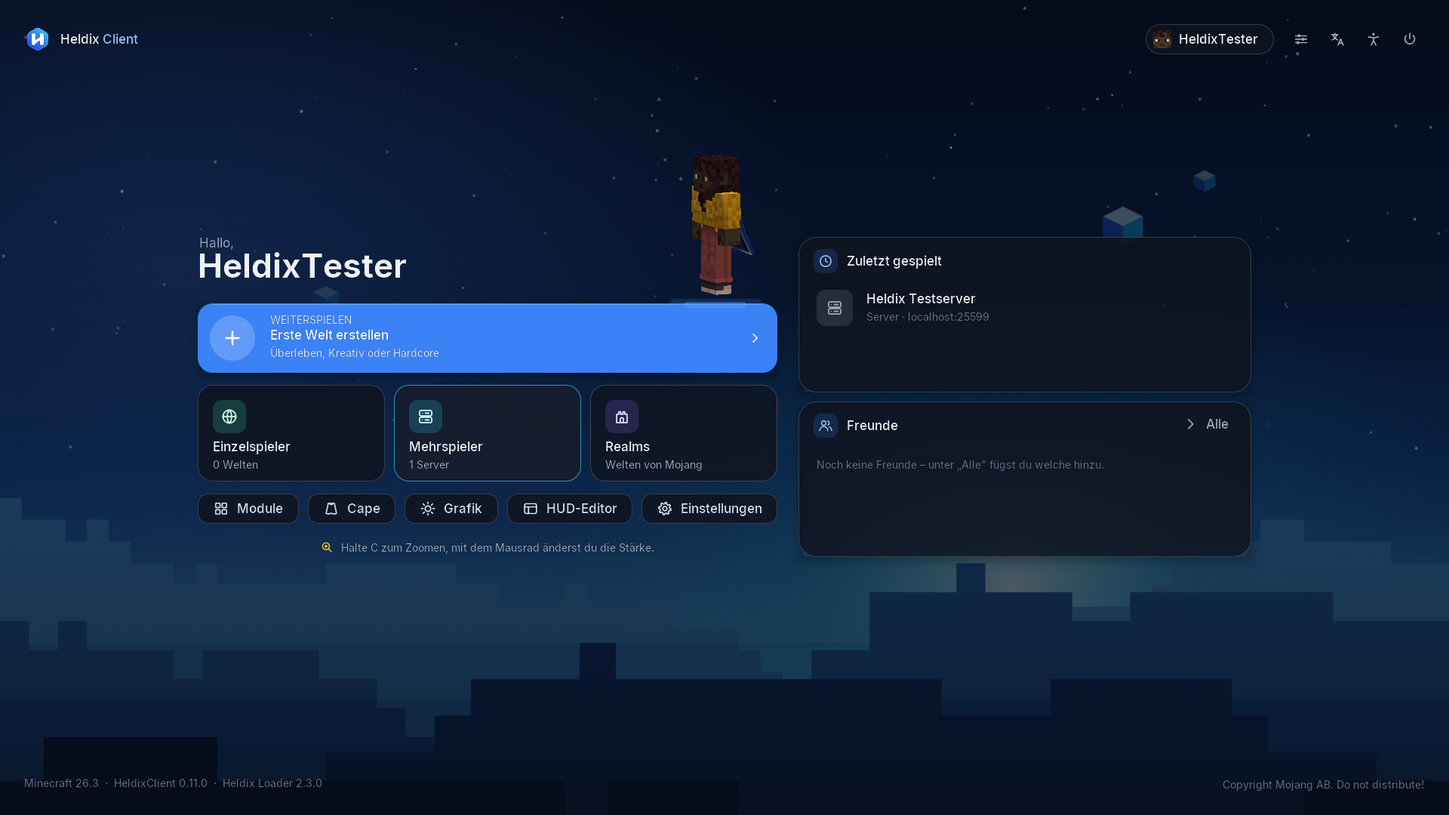
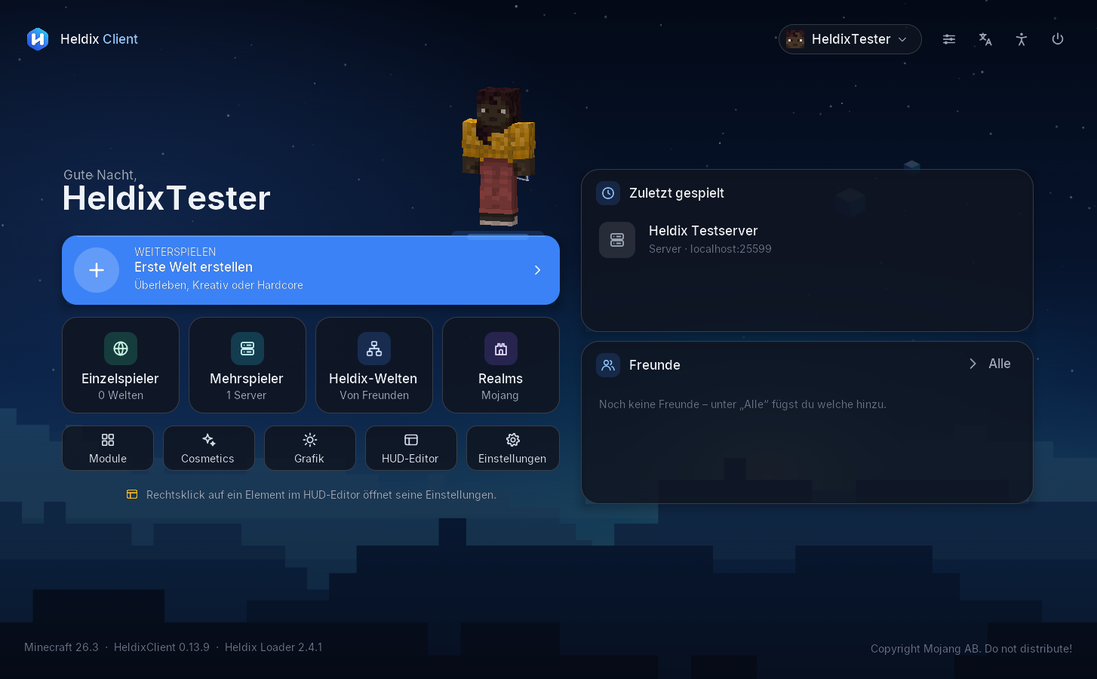
fix: Update main menu and pause menu images for improved visuals

diff --git a/README.md b/README.md
@@ -4,133 +4,123 @@
 
 # HeldixClient
 
-**Minecraft-Launcher mit eigenem Mod-Loader, Client-Mod und Addon-System – ganz ohne Fabric.**
+**Der Minecraft-Client zum Zusammenspielen – mit eigenem Launcher, eigenem Mod-Loader, Freunden, geteilten Welten, Voice Chat und Addon-Store.**
 
 [![Build](https://github.com/AMDRyzen753/HeldixClient/actions/workflows/build.yml/badge.svg)](https://github.com/AMDRyzen753/HeldixClient/actions/workflows/build.yml)
 [![Lizenz: MIT](https://img.shields.io/badge/Lizenz-MIT-blue.svg)](LICENSE)
 ![Minecraft 26.3](https://img.shields.io/badge/Minecraft-26.3-62b47a)
 ![Java 25](https://img.shields.io/badge/Java-25-e76f00)
-![Windows](https://img.shields.io/badge/Plattform-Windows-0078d4)
+![Windows](https://img.shields.io/badge/Windows-10%20%7C%2011-0078d4)
+![macOS](https://img.shields.io/badge/macOS-11%2B-555555)
+
+[**Download**](https://heldixclient.com/download) · [Webseite](https://heldixclient.com) · [Hilfe](https://heldixclient.com/hilfe) · [Für Entwickler](https://heldixclient.com/entwickler)
 
 <img src="docs/images/launcher-start.png" width="780" alt="Startseite des HeldixClient-Launchers">
 
 </div>
 
-## Was ist HeldixClient?
+## Auf einen Blick
 
-Ein eigener Minecraft-Client nach dem Vorbild von Lunar oder Feather, bestehend aus vier Teilen:
+| | |
+| --- | --- |
+| 🤝 **Zusammen spielen** | Freunde, Nachrichten, Party und „Beitreten“ – im Spiel, im Launcher und im Browser |
+| 🌍 **Welt teilen** | Die eigene Einzelspielerwelt mit einem Klick öffnen – kostenlos, ohne Portfreigabe, mit fester Adresse für alle |
+| 🎙 **Voice Chat** | Sprechen in der Nähe, in Gruppen und in der Party; Freunde ohne HeldixClient reden im Browser mit |
+| 🖥 **Eigene Oberfläche** | Startseite, Menüs, Pausemenü, HUD-Editor, Shader und F3-Menü im Heldix-Design |
+| ✨ **Cosmetics & Capes** | Animierte Flügel, Begleiter, Auren, Hüte und Capes – für alle HeldixClient-Spieler sichtbar |
+| 🧩 **Addon-Store** | Minimap, Emote-Rad, Spotify und mehr – geprüft und signiert, mit einem Klick installiert |
+
+## Was steckt drin?
 
 | Teil | Was er macht |
 | --- | --- |
-| **Launcher** | Lädt Minecraft direkt von Mojang, verwaltet Instanzen und Konten und startet das Spiel. Electron + TypeScript. |
-| **Heldix Loader** | Ein eigener Mod-Loader. Er klinkt sich als Java-Agent beim Start ein, verändert Minecraft-Klassen per ASM und lädt Heldix-Mods. Es gibt ihn auch als Fabric-Mod, damit HeldixClient in Fabric-Instanzen mitläuft. |
-| **HeldixClient-Mod** | Bringt die Features ins Spiel: eigener Ladebildschirm, eigene Oberfläche (Startseite, Einzel-/Mehrspieler, Pausemenü, Heldix-Menü) mit eigener Schrift und eigenen Icons, HUD-Module, Zoom, Heldix-Shader und ein eigenes F3-Menü. |
-| **Heldix-Addons** | Kleine Erweiterungen über eine stabile API, die nach Minecraft-Updates ohne neuen Build weiterlaufen. Einzeln aus dem **Addon-Store** (im Launcher, im Spiel und auf der Webseite, vom Team signiert), z. B. **Spotify** (Song mit Cover im HUD, Musik per Taste steuern), **Uhrzeit & Spielzeit** und **Item Physics** (Items liegen flach am Boden). |
+| **Launcher** | Lädt Minecraft direkt von Mojang, verwaltet Instanzen und Microsoft-Konten und startet das Spiel. Electron + TypeScript. |
+| **Heldix Loader** | Ein eigener Mod-Loader: klinkt sich als Java-Agent beim Start ein, verändert Minecraft-Klassen per ASM und lädt Heldix-Mods. Als Fabric-Mod läuft er auch in Fabric-Instanzen mit. |
+| **HeldixClient-Mod** | Die Features im Spiel: eigene Oberfläche, HUD-Module, Zoom, Freelook, Wegpunkte, Shader, Freunde, Welt teilen, Cosmetics. |
+| **Heldix-Addons** | Erweiterungen über eine stabile API, die nach Minecraft-Updates ohne neuen Build weiterlaufen – aus dem Addon-Store. |
+| **Heldix-Dienst** | Der Server hinter allem: Freunde, Nachrichten, Party, Welt-Relay, Voice, Cosmetics-Katalog, Addon-Store, Updates, Webseite mit Konto und Team-Bereich. Node.js, mit einem Ein-Befehl-Installer. |
 
-Wer Fabric-Mods wie Sodium oder Shaderpacks wie BSL nutzen möchte, legt im Launcher eine **Fabric-Instanz** an. HeldixClient läuft dort mit (abschaltbar).
+Wer Fabric-Mods wie Sodium oder Shaderpacks nutzen möchte, legt im Launcher eine **Fabric-Instanz** an – HeldixClient läuft dort mit (abschaltbar).
 
 ## Funktionen
 
-**Launcher**
-- Instanzen für jede Minecraft-Version, mit eigenen Welten, Mods, Addons und RAM-Einstellungen
-- drei Loader zur Wahl: Heldix Loader, Fabric oder Vanilla
-- Fabric-Mods direkt von Modrinth installieren, inklusive Abhängigkeiten
-- **Shaderpacks** wie BSL, Complementary oder Photon für Fabric-Instanzen: Suche auf Modrinth, Iris und Sodium kommen automatisch mit
-- **HeldixClient auch in Fabric-Instanzen** (HUD, Menü, Addons zusammen mit Sodium, Iris & Co.) und ein **Leistungs-Paket** mit einem Klick: Sodium, Lithium, FerriteCore, ImmediatelyFast, Entity Culling, More Culling
-- Prüfung vor jedem Start, ob die Fabric-Mods zusammenpassen; unverträgliche Zusatz-Mods schaltet der Launcher mit Hinweis ab
-- Microsoft-Login; Tokens werden mit Windows-DPAPI verschlüsselt
-- Mehrere Microsoft-Konten, Wechsel mit einem Klick (Offline-Konten gibt es nur in der Entwicklungsversion)
-- passende Java-Version (8 bis 25) wird automatisch geladen
-- **Vulkan als Standard** für Heldix-Instanzen ab Minecraft 26.x (mit automatischem Rückfall auf OpenGL) und abgestimmte Java-Einstellungen
-- **Gleiches Design wie im Spiel:** Schrift Inter, dieselben Icons, ruhiges Dunkel mit Blau; Seitenleiste mit Text (in schmalen Fenstern nur Icons)
-- Startseite: großer Spielen-Knopf mit Instanz-Auswahl und deinem Skin als drehbare 3D-Figur, Schnellzugriff auf Mods, Shader, Ordner und Einstellungen der Instanz
-- **Weiterspielen:** zuletzt gespielte Welten und Server mit einem Klick direkt betreten (Minecraft Quick Play)
-- zuletzt gespielte Instanzen direkt auf der Startseite wählen oder starten
-- **Einrichtung beim ersten Start:** Willkommen (mit Einladung, falls vorhanden), Microsoft-Anmeldung und nur offizielle HeldixClient-Addons zum Vorinstallieren; der Windows-Installer im HeldixClient-Design
-- **Zusammen spielen auf der Startseite:** offene Welten deiner Freunde und Freunde online mit „Beitreten“ (wählt die passende Instanz), Glocke mit allen Benachrichtigungen; während des Spiels bleibt der Launcher auf Wunsch im Infobereich
-- Neueste Minecraft-Patch-Notes mit Vorschaubild, mit einem Klick lesbar
-- **Discord-Status** mit Dimension, Spielmodus, Spielerzahl, Voice, geteilter Welt, Party und „Abwesend“, passenden Bildern und dem eigenen Minecraft-Kopf; jeder Teil einzeln abschaltbar, mit Vorschau
-- **Automatische Updates** über die Schnittstelle von heldixclient.com: unter Windows prüft der Launcher beim Start, installiert eine neue Version gleich still und startet neu; im laufenden Launcher alle 30 Minuten, mit „Jetzt neu starten“ oder beim Beenden. Jede Version ist mit einem eigenen Schlüssel signiert; der Launcher nimmt nur geprüfte, neuere Installer an
-- Spielkonsole mit Log
-
-**Im Spiel**
-- eigener Ladebildschirm im Heldix-Design statt des Mojang-Logos; beim Laden einer Welt und beim Verbinden mit einem Server eine Tipp-Karte mit der eigenen Spielfigur
-- **eigene Oberfläche statt Minecraft-Optik:** moderne Schrift (Inter), weiche, kantengeglättete Flächen und Schatten, ein eigenes Icon-Set und der Hintergrund des Launchers
-- **Startseite:** Begrüßung mit der eigenen Spielfigur samt Cape (Klick öffnet die Cape-Auswahl; in kleinen Fenstern steht sie groß neben den Kacheln), „Weiterspielen“ mit Vorschaubild der letzten Welt oder dem letzten Server samt Live-Stand (Spieler online, Ping), Kacheln für Einzelspieler, Mehrspieler, Heldix-Welten und Realms, beschriftete Wege zu Modulen, Cosmetics, Grafik, HUD-Editor und Einstellungen – auch in kleinen Fenstern nichts abgeschnitten; in breiten Fenstern daneben „Zuletzt gespielt“ und „Freunde“ mit Online-Status, sonst eine Freunde-Zeile mit Party und offenen Welten
-- **Ein Fenster für alles:** Einzelspieler, Mehrspieler, Heldix-Menü und Pausemenü teilen sich eine Seitenleiste mit Ober-Kategorien in Gruppen (Spielen, Heldix, Profil, System); Kategorien mit mehreren Bereichen haben ihre Unter-Menüs als Reiter unter dem Seitentitel, z. B. Grafik → Shader, Leistung oder Freunde → Freunde, Anfragen, Privatsphäre. Offene Freundschaftsanfragen stehen als Zahl in der Seitenleiste
-- eigene **Einzelspieler- und Mehrspieler-Seiten** mit Suche, Welt- und Server-Symbolen, Ping-Balken, Spielerliste beim Darüberfahren und Spielen/Bearbeiten/Löschen direkt in der Liste; Server ohne eigenen Namen zeigen ihre Adresse; die klassische Minecraft-Ansicht bleibt einen Klick entfernt
-- eigenes **Pausemenü** mit Servername und Adresse (mit einem Klick kopieren), Schnellschaltern für bis zu zwölf Module (Dauersprint, Freelook, Fadenkreuz, Wegpunkte, Zoom …), Schaltern für Mikrofon und Ton des Voice Chats und Karten für die Sitzung (Spielzeit, Position, Ping – auch auf Servern, die in der Tab-Liste keinen melden – bzw. Spielmodus), Freunde mit „Freunde einladen“ (im Mehrspieler direkt auf den eigenen Server) und Party sowie „Wegpunkt hier setzen“; das von Minecraft (mit Knöpfen anderer Mods) bleibt über „Klassisches Pausemenü“ erreichbar. Minecrafts Hinweis zu nicht überprüfbaren Chatnachrichten erscheint als Heldix-Einblendung statt über den Menüs
-- Heldix-Menü (**Rechte Umschalttaste**): Übersicht mit Spielfigur und Karten für Freunde, Wegpunkte, aktive Module und Tasten; Module als Kacheln mit Icons, Reitern (Alle, HUD, Funktionen, Addons), Suche und einem Untermenü pro Modul (z. B. Größe, Farben, Anzeige); Einstellungen in Gruppen-Karten statt einer langen Liste
-- übrige Minecraft-Menüs (Optionen usw.) mit passenden Knöpfen und Hintergrund; alles auf Wunsch abschaltbar
-- HUD-Module: FPS, CPS, Ping, Koordinaten, Richtung, Biom, Keystrokes, **Rüstung** (Rüstung und Items in der Hand mit Haltbarkeit, farbig je nach Zustand), **Trank-Effekte** (Symbol, Stufe und Restzeit; kurz vor dem Ende blinkt der Eintrag)
-- **Dauersprint und Dauerschleichen:** Sprinten ohne Taste (Sprinttaste schaltet um), Schleichen per Tastendruck umschalten; Minecraft entscheidet weiter, wann gesprintet werden darf
-- **Freelook** (**Linke Alt** halten): frei umschauen, während der Spieler weiter in seine Richtung läuft; auf Servern, deren Regeln es verbieten (z. B. hypixel.net), bleibt es aus
-- **Fadenkreuz-Editor:** sechs Formen, acht Farben, Größe, Dicke, Lücke, Deckkraft, Umrandung und Rot beim Zielen auf Lebewesen
-- **Chat:** Uhrzeit vor jeder Nachricht, gleiche Nachrichten hintereinander als „(3×)“ zusammengefasst, Strg+Klick kopiert eine Nachricht
-- **Wegpunkte** (**B** setzt einen): Markierung mit Name und Entfernung, auch durch Wände; automatischer Todespunkt; Verwalten unter Heldix-Menü → Wegpunkte (Farbe, Ausblenden, Löschen)
-- **Freunde, Capes für alle und Heldix-Symbol** über den [Heldix-Dienst](docs/dienst.md): Freundesliste mit Anfragen und Online-Status (auf Wunsch mit Server), andere HeldixClient-Spieler sehen dein Heldix-Cape, und in der Tab-Liste und über ihren Köpfen steht das Heldix-Logo vor ihrem Namen (eigenes Symbol für Team und Addon-Entwickler)
-- **Abzeichen** als Sechseck-Symbole für die Team-Rollen Admin, Entwickler, Moderator, Supporter, Designer und Tester, für Addon-Entwickler und für die Community (Partner, Creator, Botschafter) – in der Tab-Liste, über Köpfen, in der Freundesliste und auf der Profilkarte
-- **Beitreten:** Spielt ein Freund auf einem öffentlichen Server oder in einer geteilten Welt, bringt dich „Beitreten“ in der Freundesliste direkt dorthin (aus einer Welt heraus nach einer Rückfrage)
-- **Welt teilen:** die eigene Einzelspielerwelt im Pausenmenü mit einem Klick öffnen – kostenlos, ohne Portfreigabe, mit fester Adresse wie `k7m2xq.welt.heldixclient.com`, der auch Spieler ohne HeldixClient beitreten können; die IP-Adressen der Mitspieler sieht der Gastgeber nicht. Im Hauptmenü **Heldix-Welten** mit den offenen Welten der Freunde, eigenen Welten, Mitgliedern und Rollen, Anklopfen (**H** erlauben, **N** ablehnen) und automatischen Sicherungen
+### Zusammen spielen
+- **Freunde** mit Anfragen, Online-Status, Favoriten, Spitznamen und Notizen (nur für dich), eigenem Status mit „Nicht stören“, „zuletzt online“ und einer Profilkarte mit 3D-Skin und gemeinsamen Freunden
+- **Beitreten:** Spielt ein Freund auf einem öffentlichen Server oder in einer geteilten Welt, bringt dich ein Klick dorthin – aus dem Spiel, dem Launcher und dem Discord-Status
+- **Nachrichten** mit Antworten, Reaktionen, „schreibt …“, Löschen und Beitreten-Karten; Einblendung im Spiel
 - **Party** mit bis zu 7 Freunden: sehen, wo jeder spielt, Party-Chat, dem Leiter folgen und automatisch eine gemeinsame Voice-Gruppe
-- **Einladen:** eigener Link unter Freunde → Einladen; Neue sind gleich befreundet, Belohnungen (Freundesfunken, Cape Freundesband) für bestätigte Freunde. Freunde ohne HeldixClient reden über einen Gast-Link im Browser im Voice Chat mit
-- **Nachrichten** zwischen Freunden im Heldix-Menü (Freunde → Nachrichten), mit Einblendung im Spiel und Zahl der ungelesenen in der Seitenleiste; Antworten, Reaktionen, Löschen, „schreibt …“ und Beitreten-Karten; Nachrichten liegen höchstens 30 Tage beim Dienst. Dazu Favoriten, Spitznamen und Notizen nur für dich, eigener Status mit „Nicht stören“, **Blockieren** (Chat, Anfragen) und **Melden** (mit den letzten Nachrichten an den Betreiber)
-- **Konto auf heldixclient.com** ohne Passwort: Im Launcher (Konto-Menü) oder im Heldix-Menü „Auf heldixclient.com anmelden“ öffnet die Webseite schon angemeldet. Dort: Übersicht, Profil und Cosmetics, Freunde, Nachrichten und Party in Echtzeit, „Meine Welten“, Einladen, Privatsphäre, Blockierte und eigene Meldungen, alle Daten als Datei und Konto löschen
-- **Team-Bereich** auf der Webseite (nur mit Zwei-Faktor-Code): Übersicht je nach Rolle, Meldungen und Support, Spieler sperren und verwalten (mit Zeitleiste), Neuigkeiten für Webseite und Launcher schreiben, Updates, Addons und Cosmetics veröffentlichen (nur signierte), Teammitglieder mit den Rollen Admin, Entwickler, Moderator, Supporter, Designer und Tester (Rechte je Rolle) und Community-Abzeichen verwalten, Schnellsuche (Strg+K), Protokoll aller Team-Aktionen
-- **Support:** Spieler schreiben dem Team über ihr Konto (aus dem Launcher und dem Spiel unter „Hilfe & Support“ direkt erreichbar); Antworten werden im Spiel eingeblendet
-- **Öffentliche Seiten:** Teamseite (nur Mitglieder, die zustimmen, mit Minecraft-Kopf), Neuigkeiten mit Versionsverlauf, Statusseite; nach einem Update zeigt der Launcher „Was ist neu“, die neuesten Neuigkeiten stehen auch in der Übersicht im Spiel
-- HUD-Editor mit Werkzeugleiste: Einrasten an Rändern und anderen Elementen (Umschalt = frei), Raster, Größe über die Ecke oder das Mausrad, Elemente-Liste zum Ein- und Ausblenden, Pfeiltasten, Rückgängig (Strg+Z); Rechtsklick öffnet die Einstellungen eines Elements
-- Zoom (**C** halten, Mausrad ändert die Stärke)
-- **Heldix-Shader:** acht Farbstile und eine Shader-Engine mit Bloom, Tiefenunschärfe, Nebel und Umgebungsverdeckung (SSAO), mit Vulkan und OpenGL; HUD und Menüs bleiben unverändert
-- **Leistung:** FPS-Boost (schnelle Grafikoptionen, Ausschalten stellt alles wieder her) und weniger FPS, solange das Fenster im Hintergrund ist
-- **F3-Menü** im Heldix-Design, mit Grafik-API, Shader und Client-Version
-- **Capes:** 13 animierte Heldix-Capes in hoher Auflösung (Heldix, Mitternacht, Aurora, Glut, Kristall, Neon, Sakura, Gewitter, Galaxie, Matrix und – nur fürs Team – Matrix Rot, Matrix Türkis und Sakura Orange) mit Zierkante – Flammen flackern, Sterne funkeln, Blitze zucken, und leuchtende Teile strahlen auch nachts. Das Cape weht wie Stoff: Es biegt sich, wirft Wellen und flattert beim Laufen, ruhig und ohne durch Körper oder Beine zu stechen (für alle Capes, abschaltbar). Dazu eigene Bilder per Drag & Drop, eine drehende Vorschau der eigenen Spielfigur und auf Wunsch dasselbe Motiv auf der Elytra – in echter Flügelform, bei Aurora, Mitternacht, Glut und Galaxie mit eigener Form. Sichtbar für dich (z. B. mit F5)
-- **Cosmetics** aus dem Katalog des Heldix-Dienstes, für alle HeldixClient-Spieler sichtbar: Hüte, Flügel und Rückenteile, Begleiter und Auren – viele animiert, sie bewegen sich beim Laufen, Schleichen, Schwimmen und Fliegen mit und leuchten teils im Dunkeln; jede Datei ist signiert
-- **Addon-Store** im Launcher, auf der Webseite und im Spiel mit offiziellen Addons wie Voice Chat (Nähe, Gruppen, Browser-Gäste), Minimap, Emote-Rad, Item Physics, Uhrzeit und Spotify; Addons von Entwicklern werden vom Team geprüft und signiert
-- **Spotify-Addon:** laufender Song mit Cover und Fortschritt im HUD, Abspielen/Pause und Songwechsel per Taste (Pos1, Bild ab/auf), Einblendung bei jedem neuen Song – ohne Anmeldung, über die Windows-Mediensteuerung
+- **Welt teilen:** Einzelspielerwelt im Pausemenü öffnen, feste Adresse wie `k7m2xq.welt.heldixclient.com`, auch für Spieler ohne HeldixClient. Die IP-Adressen der Mitspieler sieht der Gastgeber nicht. Dazu **Heldix-Welten** im Hauptmenü mit den Welten der Freunde, Mitgliedern, Rollen, Anklopfen (**H**/**N**) und automatischen Sicherungen. In der Serverliste deiner Mitspieler steht „Geteilt mit HeldixClient“
+- **Einladen:** eigener Link – wer darüber dazukommt, ist gleich befreundet; Belohnungen für bestätigte Freunde. Der Link kann direkt auf deinen Server führen
+- **Voice Chat** (Addon): Nähe, Gruppen, Party und geteilte Welten; Mikrofon und Ton auch im Pausemenü schalten; Gäste im Browser über einen Gast-Link
+- **Blockieren** und **Melden**, Privatsphäre-Einstellungen für alles, was Freunde sehen
 
-**Für Entwickler**
-- [Heldix-Mods](docs/heldix-loader.md#eine-heldix-mod-schreiben) mit Events, eigenen Tasten, Übersetzungen und eigenen Eingriffen in Minecraft-Code
-- [Heldix-Addons](docs/addons.md) gegen eine einfache, versionsunabhängige API
-- automatischer Test im echten Spiel, der sich durch alle Menüs klickt
+### Im Spiel
+- **Eigene Oberfläche:** moderne Schrift (Inter), weiche Flächen, eigenes Icon-Set, eigener Ladebildschirm mit Tipp-Karte
+- **Startseite** mit deiner Spielfigur, „Weiterspielen“ samt Live-Stand des letzten Servers (Spieler online, Ping), Kacheln für Einzelspieler, Mehrspieler, Heldix-Welten und Realms, „Zuletzt gespielt“ und Freunden
+- **Ein Fenster für alles:** Einzelspieler, Mehrspieler, Heldix-Menü (**Rechte Umschalttaste**) und Pausemenü teilen sich eine Seitenleiste; Schnellsuche, volle Tastatur-Bedienung
+- **Pausemenü** mit Servername und Adresse, echtem Ping, bis zu zwölf Schnellschaltern, Voice-Schaltern, Freunden mit „Freunde einladen“, Party und Wegpunkten; das klassische Pausemenü bleibt einen Klick entfernt
+- **HUD-Module:** FPS, CPS, Ping, Koordinaten, Richtung, Biom, Keystrokes, Rüstung, Trank-Effekte – frei platzierbar im **HUD-Editor** (Einrasten, Raster, Größe, Rückgängig)
+- **Dauersprint und Dauerschleichen**, **Freelook** (Linke Alt), **Zoom** (C), **Fadenkreuz-Editor**, **Wegpunkte** (B, mit Todespunkt), Chat mit Uhrzeit und Zusammenfassung gleicher Nachrichten
+- **Heldix-Shader:** acht Farbstile und eine Shader-Engine mit Bloom, Tiefenunschärfe, Nebel und SSAO – mit Vulkan und OpenGL
+- **Leistung:** Vulkan als Standard ab Minecraft 26.x, FPS-Boost, weniger FPS im Hintergrund, F3-Menü im Heldix-Design
+- **Abzeichen** für Team-Rollen, Addon-Entwickler und Community (Partner, Creator, Botschafter) in der Tab-Liste, über Köpfen und in der Freundesliste
+
+Freelook und andere Komfort-Funktionen bleiben auf Servern aus, deren Regeln sie verbieten. Im Zweifel die Regeln des Servers prüfen.
+
+### Cosmetics und Capes
+- **13 animierte Heldix-Capes** in hoher Auflösung, die wie Stoff wehen; eigene Bilder per Drag & Drop; dasselbe Motiv auf der Elytra in echter Flügelform
+- **Cosmetics** aus dem signierten Katalog: Hüte, Flügel und Rückenteile, Begleiter und Auren – viele animiert, sie reagieren auf Laufen, Schleichen, Schwimmen und Fliegen und leuchten teils im Dunkeln
+- Für alle HeldixClient-Spieler sichtbar; Auswahl auch im Launcher und auf der Webseite mit 3D-Vorschau
+
+### Addons
+- **Addon-Store** im Launcher, im Spiel und auf der Webseite: Voice Chat, Minimap, Emote-Rad, Item Physics, Uhrzeit & Spielzeit, Spotify
+- Addons von Entwicklern werden vom Team geprüft und signiert; der Client lädt nur Signiertes aus dem Store
+- Eine stabile [Addon-API](docs/addons.md) ohne Minecraft-Abhängigkeit – Addons laufen über Minecraft-Updates hinweg weiter
+
+### Launcher
+- **Einrichtung beim ersten Start:** Willkommen (mit Einladung, falls vorhanden), Microsoft-Anmeldung und offizielle Addons zum Vorinstallieren; Windows-Installer im HeldixClient-Design
+- **Instanzen** für jede Minecraft-Version mit drei Loadern: Heldix Loader, Fabric oder Vanilla; Fabric-Mods und Shaderpacks direkt von Modrinth, Leistungs-Paket mit einem Klick, Prüfung auf unverträgliche Mods
+- **Mehrere Microsoft-Konten**, Wechsel auch im Spiel; Tokens mit Windows-DPAPI verschlüsselt; passendes Java (8 bis 25) wird automatisch geladen
+- **Startseite** mit 3D-Skin, Weiterspielen (Quick Play), offenen Welten der Freunde, Freunden online, Patch-Notes und einer Glocke für alle Benachrichtigungen; bleibt während des Spiels auf Wunsch im Infobereich
+- **Discord-Status** mit Dimension, Spielmodus, Spielerzahl, Voice, geteilter Welt, Party und eigenem Minecraft-Kopf – jeder Teil einzeln abschaltbar
+- **Automatische Updates:** Windows prüft beim Start und installiert neue Versionen still; jede Version ist signiert, angenommen werden nur geprüfte, neuere Installer
+
+### Webseite und Konto
+- **Konto auf heldixclient.com** ohne Passwort – aus Launcher oder Spiel schon angemeldet: Profil und Cosmetics, Freunde, Nachrichten und Party in Echtzeit, Meine Welten, Einladen, Privatsphäre, Support, alle Daten als Datei und Konto löschen
+- **Team-Bereich** mit Zwei-Faktor-Anmeldung und Rechten je Rolle (Admin, Entwickler, Moderator, Supporter, Designer, Tester): Meldungen, Support, Spieler, Neuigkeiten, Updates, Addons, Cosmetics, Abzeichen, Protokoll
+- Öffentliche Seiten: Download, Module, Cosmetics, Addon-Store, Welt-Seite `/welt#code`, Neuigkeiten mit Versionsverlauf, Status, Hilfe und Entwickler-Doku
 
 ## Screenshots
 
 | | |
 | :---: | :---: |
-| <img src="docs/images/spiel-hauptmenue.png" alt="Heldix-Hauptmenü im Spiel"> | <img src="docs/images/spiel-heldix-menue.png" alt="Heldix-Menü mit Modulen"> |
-| Startseite | Heldix-Menü |
-| <img src="docs/images/launcher-instanzen.png" alt="Instanzen im Launcher"> | <img src="docs/images/launcher-neue-instanz.png" alt="Neue Instanz anlegen"> |
-| Instanzen | Neue Instanz |
-| <img src="docs/images/spiel-ladebildschirm.png" alt="Ladebildschirm im Heldix-Design"> | <img src="docs/images/spiel-untermenue.png" alt="Untermenü eines Moduls"> |
-| Ladebildschirm | Untermenü eines Moduls |
-| <img src="docs/images/spiel-einzelspieler.png" alt="Einzelspieler-Seite"> | <img src="docs/images/spiel-mehrspieler.png" alt="Mehrspieler-Seite"> |
-| Einzelspieler | Mehrspieler |
-| <img src="docs/images/spiel-hud-editor.png" alt="HUD-Editor mit Elemente-Liste"> | <img src="docs/images/spiel-shader.png" alt="Shader im Heldix-Menü"> |
-| HUD-Editor | Shader: Farbstile und Shader-Engine |
-| <img src="docs/images/spiel-pausemenue.png" alt="Pausemenü im Heldix-Design"> | <img src="docs/images/ui-icons.png" alt="Icon-Set von HeldixClient"> |
-| Pausemenü | Eigenes Icon-Set |
-| <img src="docs/images/spiel-cape.png" alt="Cape-Auswahl im Heldix-Menü"> | <img src="docs/images/capes.png" alt="Die 13 Heldix-Capes"> |
-| Cape mit Vorschau der eigenen Figur | Die Heldix-Capes |
-| <img src="docs/images/spiel-uebersicht.png" alt="Übersicht im Heldix-Menü mit Spielfigur"> | <img src="docs/images/spiel-welt-laden.png" alt="Welt laden mit Tipp-Karte"> |
-| Übersicht im Heldix-Menü | Welt laden: Tipp mit Spielfigur |
-| <img src="docs/images/spiel-freunde.png" alt="Freunde mit Reitern Freunde, Anfragen, Privatsphäre"> | <img src="docs/images/spiel-einstellungen.png" alt="Einstellungen in Gruppen-Karten"> |
-| Freunde: Reiter für Anfragen und Privatsphäre | Einstellungen in Gruppen |
+| <img src="docs/images/spiel-hauptmenue.png" alt="Hauptmenü im Heldix-Design"> | <img src="docs/images/spiel-pausemenue.png" alt="Pausemenü mit Schnellschaltern, Voice und Freunden"> |
+| Hauptmenü | Pausemenü |
+| <img src="website/src/bilder/welt-geteilt.webp" alt="Welt teilen mit fester Adresse"> | <img src="website/src/bilder/party-spiel.webp" alt="Party im Heldix-Menü"> |
+| Welt teilen | Party |
+| <img src="website/src/bilder/cosmetics-animiert.webp" alt="Animierte Cosmetics"> | <img src="docs/images/capes.png" alt="Die Heldix-Capes"> |
+| Animierte Cosmetics | Die Heldix-Capes |
+| <img src="docs/images/spiel-heldix-menue.png" alt="Heldix-Menü mit Modulen"> | <img src="docs/images/spiel-hud-editor.png" alt="HUD-Editor mit Elemente-Liste"> |
+| Heldix-Menü | HUD-Editor |
+| <img src="website/src/bilder/einrichtung-willkommen.webp" alt="Einrichtung beim ersten Start"> | <img src="website/src/bilder/launcher-welten.webp" alt="Offene Welten der Freunde im Launcher"> |
+| Einrichtung beim ersten Start | Offene Welten der Freunde im Launcher |
+| <img src="docs/images/spiel-shader.png" alt="Shader im Heldix-Menü"> | <img src="docs/images/spiel-ladebildschirm.png" alt="Ladebildschirm im Heldix-Design"> |
+| Shader | Ladebildschirm |
 
 ## Installation
 
 **Windows 10 und 11**
 1. Den Installer `HeldixClient-Setup-<version>.exe` auf [heldixclient.com/download](https://heldixclient.com/download) herunterladen und starten.
 2. Windows SmartScreen warnt beim ersten Start, weil der Installer nicht signiert ist: **Weitere Informationen** → **Trotzdem ausführen**.
-3. Im Launcher mit dem Microsoft-Konto anmelden, eine Instanz wählen und **Spielen** drücken.
+3. Die Einrichtung führt durch Anmeldung und Addons – danach eine Instanz wählen und **Spielen** drücken.
 
 **macOS 11 oder neuer** (Apple Silicon und Intel)
 1. Auf [heldixclient.com/download](https://heldixclient.com/download) die Mac-Version laden (Apple Silicon für M1 und neuer, sonst Intel), öffnen und HeldixClient in **Programme** ziehen.
 2. Die App ist nur ad-hoc signiert und nicht von Apple beglaubigt. Beim ersten Start blockiert macOS sie; unter **Systemeinstellungen → Datenschutz & Sicherheit** steht dann **Dennoch öffnen**.
-3. Anmelden und spielen wie unter Windows. Unterschiede: Vulkan gibt es auf dem Mac nicht (Minecraft wählt die Grafik selbst), Updates meldet der Launcher nur und lädt sie nicht selbst, und das Spotify-Addon braucht Windows.
+3. Anmelden und spielen wie unter Windows. Unterschiede: kein Vulkan (Minecraft wählt die Grafik selbst), Updates meldet der Launcher nur und schickt zur Download-Seite, und das Spotify-Addon braucht Windows.
 
 > [!NOTE]
-> Die Anmeldung mit Microsoft-Konten braucht eine App-ID, die Mojang freigeschaltet hat. Die App-ID von HeldixClient ist seit November 2026 freigegeben. Wer einen eigenen Build mit eigener App-ID ausliefert, muss sie selbst freischalten lassen, siehe [docs/einrichtung.md](docs/einrichtung.md).
+> Die Anmeldung mit Microsoft-Konten braucht eine App-ID, die Mojang freigeschaltet hat. Die App-ID von HeldixClient ist freigegeben. Wer einen eigenen Build mit eigener App-ID ausliefert, muss sie selbst freischalten lassen, siehe [docs/einrichtung.md](docs/einrichtung.md).
 
 ## Selbst bauen
 
@@ -140,38 +130,37 @@ Voraussetzungen: Windows oder macOS, [Node.js](https://nodejs.org) 22 oder neuer
 git clone https://github.com/AMDRyzen753/HeldixClient.git
 cd HeldixClient\launcher
 npm install
-npm run mod      # baut Heldix Loader und Client-Mod (Addons: npm run addon -- <id>, siehe docs/addons.md)
-npm start        # startet den Launcher im Entwicklungsmodus
-npm run dist     # erzeugt den Installer in launcher\release\
+npm run mod      # Heldix Loader und Client-Mod (Addons: npm run addon -- <id>, siehe docs/addons.md)
+npm start        # Launcher im Entwicklungsmodus
+npm run dist     # Windows-Installer in launcher\release\
 npm run dist:mac # nur auf einem Mac: DMG und ZIP für Apple Silicon und Intel
 ```
 
-Die Mac-App baut auch GitHub Actions bei jedem Push (Job „macOS-App bauen“) und hängt sie bei einem Versions-Tag an das Release.
+- **Ohne Mac:** GitHub Actions baut bei jedem Push auf `main` den Windows-Installer und die Mac-App (Workflow „Build“, Artefakte `HeldixClient-Setup` und `HeldixClient-macOS`), bei einem Versions-Tag wie `v0.13.9` auch als Release. Von Hand: Workflow „Build“ → **Run workflow**.
+- Beim ersten Bauen lädt Gradle die Minecraft-Client-JAR zum Kompilieren direkt von Mojang. Sie landet nur in `mod/.gradle/` und wird nie eingecheckt oder ausgeliefert.
+- `mod/src/main/resources/heldix-store-key.pem` ist der **öffentliche** Schlüssel für Store-Addons und Cosmetics und muss zu `launcher/src/main/update-public-key.ts` passen. Private Schlüssel gehören nie ins Repository.
+- Den **Heldix-Dienst** samt Webseite baut `npm run installer` in `service/` zu einem Ein-Befehl-Installer für Linux-Server, siehe [docs/dienst.md](docs/dienst.md).
 
-Beim ersten Bauen lädt Gradle die Minecraft-Client-JAR zum Kompilieren direkt von Mojang. Sie landet nur in `mod/.gradle/` und wird nie eingecheckt oder ausgeliefert.
-
-Mehr dazu, inklusive Tests und Releases, steht in [docs/entwicklung.md](docs/entwicklung.md).
+Mehr dazu, inklusive Tests (automatischer Test im echten Spiel, Dienst- und Launcher-Tests) und Releases, steht in [docs/entwicklung.md](docs/entwicklung.md).
 
 ## Projektaufbau
 
 ```
-launcher/                Electron-Launcher (TypeScript)
-├── src/main/            Hauptprozess: Fenster, Konten, Einstellungen, Discord
-│   └── core/            Launcher-Kern: Download, Java, Instanzen, Spielstart
-├── src/renderer/        Oberfläche (HTML/CSS/TypeScript)
-└── src/scripts/         Start-, Auto- und Discord-Test
-mod/                     Java-Projekte (Gradle, Minecraft 26.3, Java 25)
-├── heldix-loader/       der Heldix Loader (Java-Agent + ASM)
-├── heldix-loader-fabric/ derselbe Loader als Fabric-Mod (für HeldixClient in Fabric-Instanzen)
-├── src/                 HeldixClient-Mod
-├── heldix-api/          API für Heldix-Addons (ohne Minecraft-Abhängigkeit)
-├── addons/uhrzeit/      Addon „Uhrzeit & Spielzeit“ (auch Vorlage), kommt über den Addon-Store
-├── addons/spotify/      Spotify-Addon (Windows-Mediensteuerung), kommt über den Addon-Store
-├── addons/itemphysics/  Addon „Item Physics“ (gedroppte Items liegen flach, API 4), kommt über den Addon-Store
-service/                 Heldix-Dienst: Freunde, Capes für alle, Heldix-Symbol (Node.js) und Server-Installer
-website/                 Webseite (Startseite, Download, Impressum, Datenschutz)
-└── autotest/            automatischer Test im echten Spiel
-docs/                    Dokumentation und Bilder
+launcher/                  Electron-Launcher (TypeScript)
+├── src/main/              Hauptprozess: Fenster, Konten, Einstellungen, Discord, Updates
+│   └── core/              Kern: Download, Java, Instanzen, Spielstart, Freunde, Einladungen
+├── src/renderer/          Oberfläche (HTML/CSS/TypeScript)
+└── src/scripts/           Release, Spielstart- und Autotest, Launcher-Tests
+mod/                       Java-Projekte (Gradle, Minecraft 26.3, Java 25)
+├── heldix-loader/         Heldix Loader (Java-Agent + ASM)
+├── heldix-loader-fabric/  derselbe Loader als Fabric-Mod
+├── heldix-api/            API für Heldix-Addons (ohne Minecraft-Abhängigkeit)
+├── src/                   HeldixClient-Mod
+├── addons/                offizielle Addons: voicechat, minimap, emoterad, itemphysics, uhrzeit, spotify
+└── autotest/              automatischer Test im echten Spiel
+service/                   Heldix-Dienst (Node.js) und Server-Installer
+website/                   Webseite: öffentliche Seiten, Konto, Team-Bereich, Hilfe, Entwickler-Doku
+docs/                      Dokumentation und Bilder
 ```
 
 ## Dokumentation
@@ -179,22 +168,24 @@ docs/                    Dokumentation und Bilder
 | Thema | Inhalt |
 | --- | --- |
 | [Heldix Loader](docs/heldix-loader.md) | Wie der Loader funktioniert, seine API und wie man eine Heldix-Mod schreibt |
-| [Heldix-Addons](docs/addons.md) | Addons gegen die Heldix-API schreiben |
+| [Heldix-Addons](docs/addons.md) | Addons gegen die Heldix-API schreiben, einreichen und veröffentlichen |
+| [Heldix-Dienst](docs/dienst.md) | Freunde, Welt teilen, Voice, Cosmetics, Store, Schnittstellen, Datenschutz und Installation auf dem Server |
 | [Einrichtung](docs/einrichtung.md) | Microsoft-Login und Discord-Status für eigene Builds einrichten |
+| [Kontowechsel](docs/konto-wechsel.md) | Wie Launcher und Spiel Konten wechseln |
 | [Leistung](docs/leistung.md) | Vulkan, Java-Einstellungen, FPS-Boost, Shader, F3-Menü und Messwerte |
 | [Entwicklung](docs/entwicklung.md) | Bauen, Testen, Releases, neue Minecraft-Versionen, Datenordner |
 
 ## Mitmachen
 
-Fehler und Ideen gerne als [Issue](https://github.com/AMDRyzen753/HeldixClient/issues) melden. Wie du Änderungen beisteuerst, steht in [CONTRIBUTING.md](CONTRIBUTING.md).
+Fehler und Ideen gerne als [Issue](https://github.com/AMDRyzen753/HeldixClient/issues) melden oder im Spiel und auf der Webseite über **Hilfe & Support**. Wie du Änderungen beisteuerst, steht in [CONTRIBUTING.md](CONTRIBUTING.md).
 
-## Rechtliches
+## Rechtliches und Datenschutz
 
 HeldixClient ist **kein offizielles Minecraft-Produkt** und steht in keiner Verbindung zu Mojang oder Microsoft.
 
 - Alle Minecraft-Dateien lädt der Launcher direkt von Mojang. Dieses Repository enthält und verteilt keine Minecraft-Dateien.
 - Der Heldix Loader verändert Minecraft-Klassen nur beim Start im Arbeitsspeicher und speichert sie nicht.
-- Die Logos von Minecraft (Grasblock) und Fabric auf den Instanz-Kacheln liest der Launcher aus den Dateien im Datenordner (Minecraft-Client bzw. Fabric Loader, falls nötig einmal von Fabrics Maven-Server geladen). Sie gehören ihren Rechteinhabern und liegen nicht in diesem Repository.
-- Viele Server verbieten Features, die einen Vorteil verschaffen. Im Zweifel die Server-Regeln prüfen.
+- Die Logos von Minecraft (Grasblock) und Fabric auf den Instanz-Kacheln liest der Launcher aus den Dateien im Datenordner (Minecraft-Client bzw. Fabric Loader). Sie gehören ihren Rechteinhabern und liegen nicht in diesem Repository.
+- Was der Heldix-Dienst speichert und wer was sieht, steht in der [Datenschutzerklärung](https://heldixclient.com/datenschutz) und in [docs/dienst.md](docs/dienst.md). Alles lässt sich im Spiel oder auf der Webseite als Datei herunterladen und löschen.
 
-Der Quellcode steht unter der [MIT-Lizenz](LICENSE). Die Schrift [Inter](https://github.com/rsms/inter) (in der Client-Mod) steht unter der SIL Open Font License 1.1, siehe [Inter-OFL.txt](mod/src/main/resources/licenses/Inter-OFL.txt).
+Der Quellcode steht unter der [MIT-Lizenz](LICENSE). Die Schrift [Inter](https://github.com/rsms/inter) (in der Client-Mod und auf der Webseite) steht unter der SIL Open Font License 1.1, siehe [Inter-OFL.txt](mod/src/main/resources/licenses/Inter-OFL.txt).
